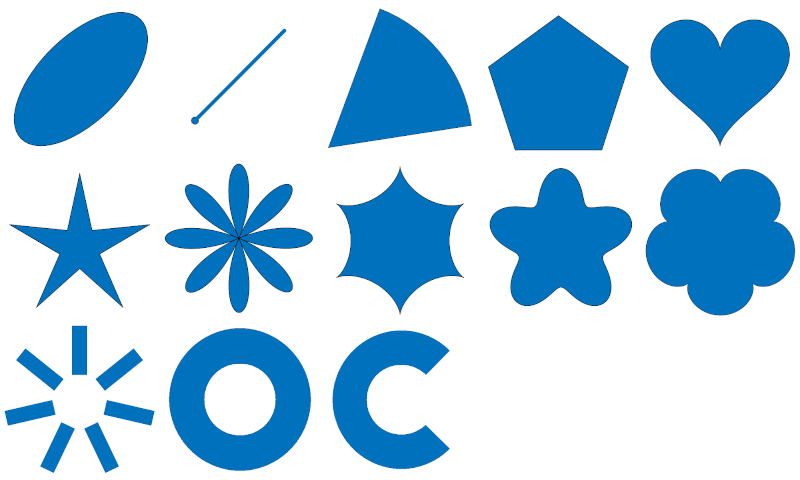
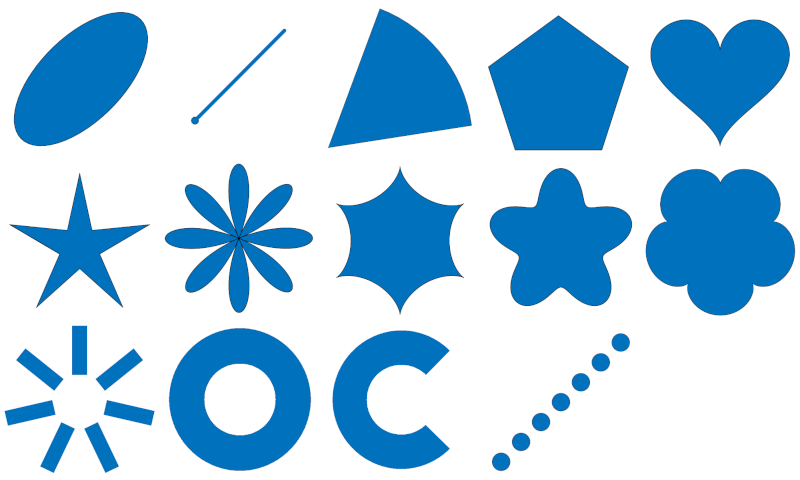
Update documentation

Changed region(s): [[0.5938, 0.6875, 0.8125, 1.0]]

diff --git a/index.html b/index.html
@@ -79,8 +79,8 @@ code {
 <p>They can also be accessed from the <em>Vector-&gt;Shape Tools-&gt;Create Shapes</em> menu.</p>
 <div style="text-align:center"><img src="doc/menu-shapes.jpg" alt="Create Shapes"></div>
 
-<p>Ellipses, lines of bearing, pie wedges, donuts, arc wedges, multi-sided polygons, stars, ellipse roses, hypocycloids, polyfoils, epicycloids, radial lines, and hearts can be created from parameters in the layer data or from default parameters in the <em>Create Shapes</em> tool. Note that if the output layer uses a temporary layer, it will not be saved with the QGIS project. You need to manually save the layer or use the <a href="http://plugins.qgis.org/plugins/MemoryLayerSaver/">Memory Layer Saver</a> plugin.</p>
-<p>The following are details for creating each shape. All of the shapes are created centered about the point or from the point. Common elements are:</p>
+<p>Ellipses, lines of bearing, points along a line of bearing, pie wedges, donuts, arc wedges, multi-sided polygons, stars, ellipse roses, hypocycloids, polyfoils, epicycloids, radial lines, and hearts can be created from parameters in the layer data or from default parameters in the <em>Create Shapes</em> tool. Note that if the output layer uses a temporary layer, it will not be saved with the QGIS project. You need to manually save the layer or use the <a href="http://plugins.qgis.org/plugins/MemoryLayerSaver/">Memory Layer Saver</a> plugin.</p>
+<p>The following are details for creating each shape. All of the shapes are created centered around a point feature or from a point feature. Common elements are:</p>
 <ul>
 <li><strong>Input layer</strong> - Select the desired point vector layer.</li>
 <li><strong>Output layer</strong> - Select either <strong><em>[Create temporary layer]</em></strong>, <strong><em>Save to file...</em></strong>, <strong><em>Save to GeoPackage...</em></strong>, or <strong><em>Save to PostGIS Table...</em></strong>.</li>
@@ -96,7 +96,22 @@ code {
 
 <p>Alternatively, the user can click on the <strong><em>Edit...</em></strong> button and use any valid expression.</p>
 <h3>Line of Bearing</h3>
-<p><strong>Bearing</strong> is the angle measured in degrees, in a clockwise direction from the north line. A <strong>line of bearing</strong> is the line drawn from a starting point in the direction of the <strong>bearing</strong> or azimuth for the selected distance. The line of bearing uses geodesic math to find the shortest path and is accurate along the Earth's surface. </p>
+<p>A <strong>line of bearing</strong> is the line drawn from a starting point in the direction of the <strong>asimuth</strong> or <strong>bearing</strong> for the specified distance. The line of bearing uses geodesic math to find the shortest path and is accurate along the Earth's surface.</p>
+<ul>
+<li><strong>Azimuth/bearing</strong> is the angle measured in degrees, in a clockwise direction from the north line.</li>
+<li><strong>Distance</strong> - The line will be drawn from the originating point plus the offset in the <strong>azimuth</strong> direction until it reaches this distance from the origin.</li>
+<li><strong>Line offset from origin</strong> - In some instances you may only be interested in distances away from the point of origin. This parameter allows the user to start the line at some offset distance from the origin.</li>
+<li><strong>Distance units</strong> - The unit of distance measurements of the above parameters.</li>
+</ul>
+<h3>Points Along a Bearing</h3>
+<p>A <strong>line of bearing</strong> is the line drawn from a starting point in the direction of the <strong>azimuth</strong> or <strong>bearing</strong> for the specified distance. The line of bearing uses geodesic math to find the shortest path and is accurate along the Earth's surface. In this algoirthm rather than drawing a line, equally spaced points are created along the line.</p>
+<ul>
+<li><strong>Azimuth/bearing</strong> - This is the angle measured in degrees, in a clockwise direction from the north line.</li>
+<li><strong>Distance</strong> - This is the distance in which points will be drawn.</li>
+<li><strong>Distance from origin to the first point</strong> - In some instances you may only be interested in distances away from the point of origin. This parameter allows the user to start the points at some offset distance from the origin.</li>
+<li><strong>Distance between points</strong> - This is the stepping distance between rendered points. The value must be greater than 0.</li>
+<li><strong>Distance units</strong> - The unit of distance measurements of the above parameters.</li>
+</ul>
 <h3>Pie Wedge</h3>
 <p>If <strong>Azimuth mode</strong> it is set to <em>Use beginning and ending azimuths</em>, then the pie wedge focal point starts at the point layer's geometry extending out to the specified radius. It starts at the <strong>Starting azimuth</strong> going in a clockwise direction to the <strong>Ending azimuth</strong>. If <strong>Azimuth mode</strong> is set to <em>Use center azimuth and width</em>, then a center azimuth is specified which becomes the center of the pie wedge with an arc length of <strong>Azimuth width</strong>. The pie wedge can either be defined from the point vector layer and the selected parameters or the override to the right allows selection of an attribute to derive the values or an expression. <strong>Drawing segments</strong> is the number of line segments that would be used to draw a full circle. A wedge will use a proportionally smaller number of segments. Making this larger will give smoother results, but will be slower rendering the shapes. If the azimuth width is 360 degrees, the a donut is created.</p>
 <h3>Donut</h3>
@@ -244,7 +259,7 @@ code {
 <p>To the right of each parameter is the data defined override button <img alt="" src="doc/datadefined.jpg" /> where the default value is overridden with a value from one of the attributes or an expression. This leads to some powerful and creative applications.</p>
 <div style="text-align:center"><img src="doc/geodesictransformexample.jpg" alt="Geodesic Transformation Example"></div>
 
-<p>This was created by clicking on the <strong><em>Rotation angle about the centroid</em></strong> data defined override button, clicking on <strong>Edit</strong> and using the expression <code><span style="font-family:'Courier New'"><b>randf( -10, 10)</b></span></code> and for <strong><em>Scale factor about the centroid</em></strong> using the expression <code><span style="font-family:'Courier New'"><b>randf(0.65, 0.85)</b></style></code>. For each polygin in the input layer it rotates them using a random value between -10 and 10 degrees and scales them by a factor betweeen 0.65 and 0.85.</p>
+<p>This was created by clicking on the <strong><em>Rotation angle about the centroid</em></strong> data defined override button, clicking on <strong>Edit</strong> and using the expression <code><span style="font-family:'Courier New'"><b>randf( -10, 10)</b></span></code> and for <strong><em>Scale factor about the centroid</em></strong> using the expression <code><span style="font-family:'Courier New'"><b>randf(0.65, 0.85)</b></style>.</code> For each polygin in the input layer it rotates them using a random value between -10 and 10 degrees and scales them by a factor betweeen 0.65 and 0.85.</p>
 <h2><a name="geodesic-flip"></a> <img alt="Geodesic Flip and Rotate Tools" src="images/flip.svg" /> Geodesic Flip and Rotate Tools</h2>
 <p>This is a collection of geodesic tools that transform vector features including the ability to flip horizontally, flip vertically, rotate by 180 degrees, rotate clockwise by 90 degrees, and rotate counter clockwise by 90 degrees. The first is a processing toolbox algorithm that allows the selection of one of these five transforms.</p>
 <div style="text-align:center"><img src="doc/fliptool.jpg" alt="Geodesic Flip and Rotate"></div>

diff --git a/readme.md b/readme.md
@@ -45,9 +45,9 @@ They can also be accessed from the *Vector->Shape Tools->Create Shapes* menu.
 
 <div style="text-align:center"><img src="doc/menu-shapes.jpg" alt="Create Shapes"></div>
 
-Ellipses, lines of bearing, pie wedges, donuts, arc wedges, multi-sided polygons, stars, ellipse roses, hypocycloids, polyfoils, epicycloids, radial lines, and hearts can be created from parameters in the layer data or from default parameters in the *Create Shapes* tool. Note that if the output layer uses a temporary layer, it will not be saved with the QGIS project. You need to manually save the layer or use the [Memory Layer Saver](http://plugins.qgis.org/plugins/MemoryLayerSaver/) plugin.
+Ellipses, lines of bearing, points along a line of bearing, pie wedges, donuts, arc wedges, multi-sided polygons, stars, ellipse roses, hypocycloids, polyfoils, epicycloids, radial lines, and hearts can be created from parameters in the layer data or from default parameters in the *Create Shapes* tool. Note that if the output layer uses a temporary layer, it will not be saved with the QGIS project. You need to manually save the layer or use the [Memory Layer Saver](http://plugins.qgis.org/plugins/MemoryLayerSaver/) plugin.
 
-The following are details for creating each shape. All of the shapes are created centered about the point or from the point. Common elements are:
+The following are details for creating each shape. All of the shapes are created centered around a point feature or from a point feature. Common elements are:
 
 * **Input layer** - Select the desired point vector layer.
 * **Output layer** - Select either ***[Create temporary layer]***, ***Save to file...***, ***Save to GeoPackage...***, or ***Save to PostGIS Table...***.
@@ -69,7 +69,22 @@ Alternatively, the user can click on the ***Edit...*** button and use any valid 
 
 ### Line of Bearing
 
-**Bearing** is the angle measured in degrees, in a clockwise direction from the north line. A **line of bearing** is the line drawn from a starting point in the direction of the **bearing** or azimuth for the selected distance. The line of bearing uses geodesic math to find the shortest path and is accurate along the Earth's surface. 
+A **line of bearing** is the line drawn from a starting point in the direction of the **asimuth** or **bearing** for the specified distance. The line of bearing uses geodesic math to find the shortest path and is accurate along the Earth's surface.
+
+* **Azimuth/bearing** is the angle measured in degrees, in a clockwise direction from the north line.
+* **Distance** - The line will be drawn from the originating point plus the offset in the **azimuth** direction until it reaches this distance from the origin.
+* **Line offset from origin** - In some instances you may only be interested in distances away from the point of origin. This parameter allows the user to start the line at some offset distance from the origin.
+* **Distance units** - The unit of distance measurements of the above parameters.
+
+### Points Along a Bearing
+
+A **line of bearing** is the line drawn from a starting point in the direction of the **azimuth** or **bearing** for the specified distance. The line of bearing uses geodesic math to find the shortest path and is accurate along the Earth's surface. In this algoirthm rather than drawing a line, equally spaced points are created along the line.
+
+* **Azimuth/bearing** - This is the angle measured in degrees, in a clockwise direction from the north line.
+* **Distance** - This is the distance in which points will be drawn.
+* **Distance from origin to the first point** - In some instances you may only be interested in distances away from the point of origin. This parameter allows the user to start the points at some offset distance from the origin.
+* **Distance between points** - This is the stepping distance between rendered points. The value must be greater than 0.
+* **Distance units** - The unit of distance measurements of the above parameters.
 
 ### Pie Wedge
 
@@ -271,7 +286,7 @@ To the right of each parameter is the data defined override button ![](doc/datad
 
 <div style="text-align:center"><img src="doc/geodesictransformexample.jpg" alt="Geodesic Transformation Example"></div>
 
-This was created by clicking on the ***Rotation angle about the centroid*** data defined override button, clicking on **Edit** and using the expression <code><span style="font-family:'Courier New'"><b>randf( -10, 10)</b></span></code> and for ***Scale factor about the centroid*** using the expression <code><span style="font-family:'Courier New'"><b>randf(0.65, 0.85)</b></style></code>. For each polygin in the input layer it rotates them using a random value between -10 and 10 degrees and scales them by a factor betweeen 0.65 and 0.85.
+This was created by clicking on the ***Rotation angle about the centroid*** data defined override button, clicking on **Edit** and using the expression <code><span style="font-family:'Courier New'"><b>randf( -10, 10)</b></span></code> and for ***Scale factor about the centroid*** using the expression <code><span style="font-family:'Courier New'"><b>randf(0.65, 0.85)</b></style>.</code> For each polygin in the input layer it rotates them using a random value between -10 and 10 degrees and scales them by a factor betweeen 0.65 and 0.85.
 
 ## <a name="geodesic-flip"></a> ![Geodesic Flip and Rotate Tools](images/flip.svg) Geodesic Flip and Rotate Tools
 This is a collection of geodesic tools that transform vector features including the ability to flip horizontally, flip vertically, rotate by 180 degrees, rotate clockwise by 90 degrees, and rotate counter clockwise by 90 degrees. The first is a processing toolbox algorithm that allows the selection of one of these five transforms.
